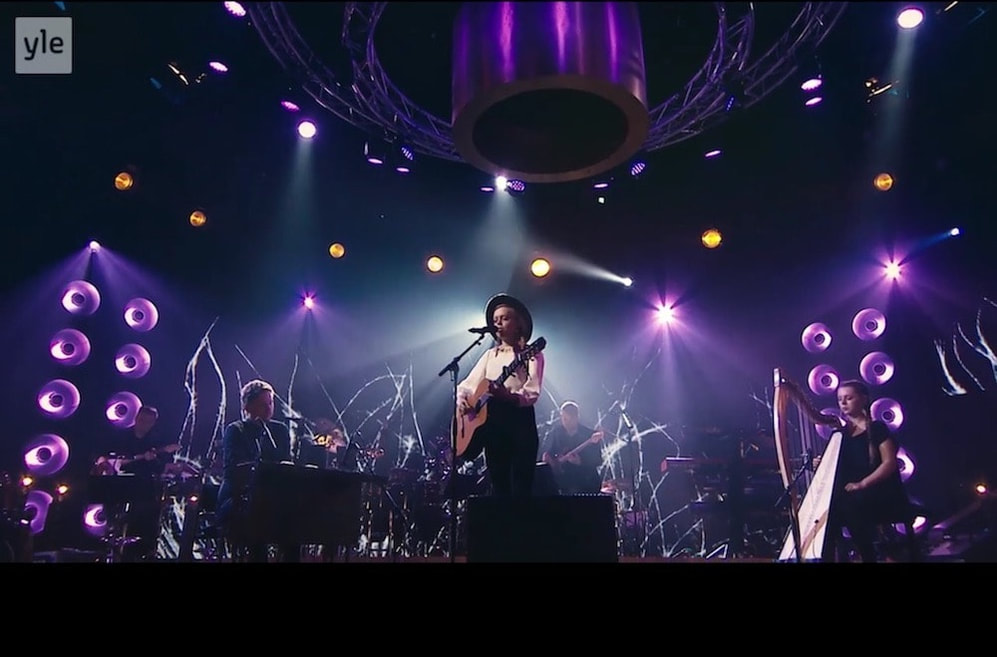
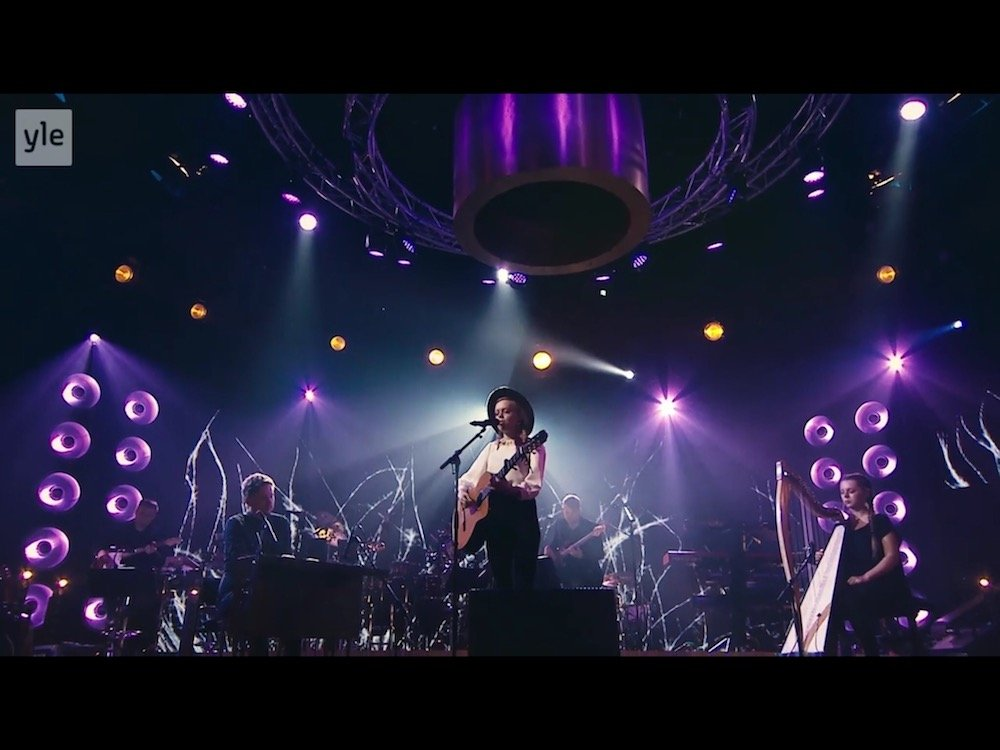
Use the supplied original photos
Replaces the resized Weebly copies where the originals are larger or less cropped,
adds the two hero photos, and darkens the bio hero slightly as on the old site.
Images are scaled to at most 2000px (2400px for heroes) for the web.

Claude-Session: https://claude.ai/code/session_01J2bzeFzwFvdMEZZKL5JKsB

diff --git a/src/styles/global.css b/src/styles/global.css
@@ -63,6 +63,7 @@ p { margin: 0 0 1.2em; }
 .hero { position: relative; background-size: cover; background-position: center; color: #fff; display: flex; align-items: center; }
 .hero.tall { min-height: 100vh; }
 .hero.mid { min-height: 500px; padding-top: 88px; }
+.hero.mid::before { content: ''; position: absolute; inset: 0; background: rgba(40, 20, 10, .32); }
 .hero.band { height: 190px; background: linear-gradient(180deg, var(--taupe) 0%, #fff 100%); }
 .hero > .inner { width: 100%; }
 .hero-title {
